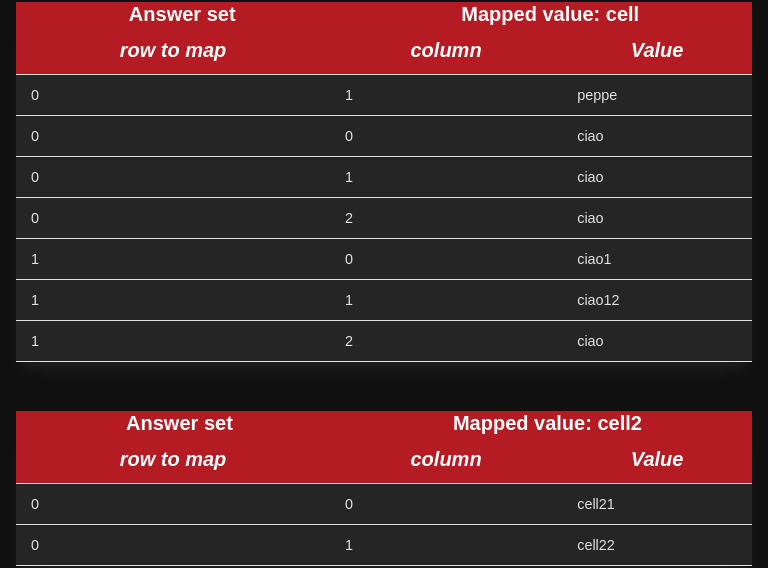
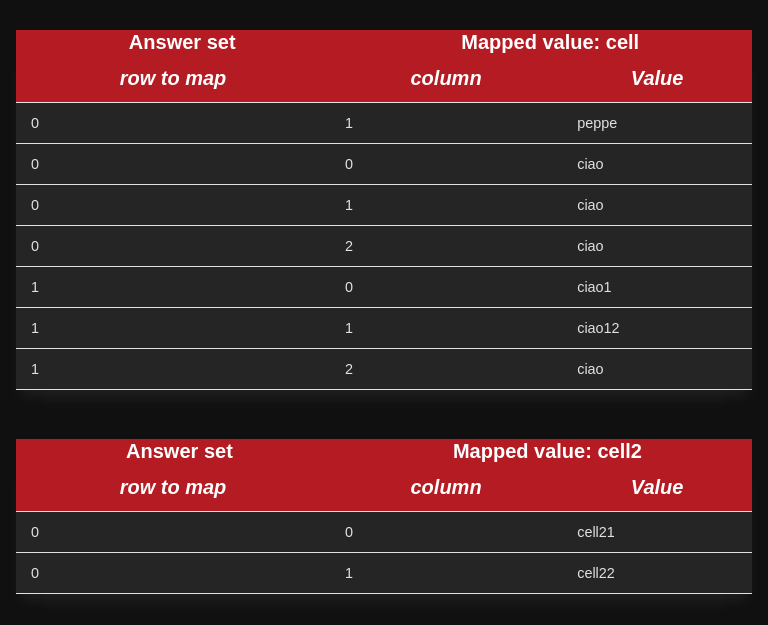
fixing tests

Changed region(s): [[0.0, 0.0, 1.0, 0.4789], [0.0, 0.6884, 1.0, 1.0], [0.0312, 0.5088, 0.9688, 0.6285]]

diff --git a/src/visualizer-integrator/visualizer.ts b/src/visualizer-integrator/visualizer.ts
@@ -17,7 +17,6 @@ export function callNode(
 
   let template_file = JSON.parse(fs.readFileSync(template_file_path, 'utf8'));
 
-  //TODO read it from the file
   const visualization_type: string = template_file.template;
   console.log(`Requested visualization: ${template_file.template}`)
 
@@ -47,8 +46,7 @@ export function callNode(
 if (require.main === module) {
   //Calling matrix; callNode('/home/simone/Desktop/agile_stuff/matrix/config_matrix.json', '/home/simone/Desktop/agile_stuff/matrix/matrix.asp', '/home/simone/Desktop/agile_stuff/dlv', 1, '/home/simone/Desktop/agile_stuff/graph_output', undefined)
   //Calling matrix-images: callNode('/home/simone/Desktop/agile_stuff/matrix/config_matrix_images.json', '/home/simone/Desktop/agile_stuff/matrix/matrix_images.asp', '/home/simone/Desktop/agile_stuff/dlv', 1, '/home/simone/Desktop/agile_stuff/graph_output', '/home/simone/Desktop/agile_stuff/matrix/matrix_images/')
-  //Calling table
-  callNode('/home/simone/Desktop/agile_stuff/matrix/config_table.json', '/home/simone/Desktop/agile_stuff/matrix/matrix.asp', '/home/simone/Desktop/agile_stuff/dlv', 1, '/home/simone/Desktop/agile_stuff/graph_output', undefined)
+  //Calling table callNode('/home/simone/Desktop/agile_stuff/matrix/config_table.json', '/home/simone/Desktop/agile_stuff/matrix/matrix.asp', '/home/simone/Desktop/agile_stuff/dlv', 1, '/home/simone/Desktop/agile_stuff/graph_output', undefined)
 }
 
 

diff --git a/src/wrapper-dlv/acceptance_tests/test_acceptance.ts b/src/wrapper-dlv/acceptance_tests/test_acceptance.ts
@@ -10,7 +10,7 @@ const dlvWrapper = new DLVWrapper()
 
 describe('acceptance test',  () => {
     //Parametrizing tests
-    it('write to stdout the correct representation of an AS', () => {
+    it('returns the correct representation of an AS', () => {
         let dlv_executable_stub = sinon.stub(dlvWrapper, "run_dlv");
         dlv_executable_stub.returns("DLV X.X.X\n\n{m(2), s(2,3)}\nCOST 1@1\n")
 
@@ -22,8 +22,8 @@ describe('acceptance test',  () => {
             asp_file: 'asp_file.asp',
         }
 
-        dlvWrapper.execute(argv);
-        expect(console_stub.calledOnceWithExactly(JSON.stringify([{ 'as': [ 'm(2)', 's(2,3)' ], 'cost': '1@1' }]))).to.be.true;
+        let res = dlvWrapper.execute(argv);
+        expect(res).to.be.equals(JSON.stringify([{ 'as': [ 'm(2)', 's(2,3)' ], 'cost': '1@1' }]));
         dlv_executable_stub.restore()
         console_stub.restore()
         

diff --git a/src/wrapper-dlv/tests/test_wrapper.ts b/src/wrapper-dlv/tests/test_wrapper.ts
@@ -1,7 +1,7 @@
 import { assert, expect } from 'chai';
 import 'mocha';
 import { DLVWrapper } from '../dlv_wrapper'
-import { execute } from '../dlv_wrapper'
+import { run_solver } from '../dlv_wrapper'
 var child_process = require('child_process')
 var fs = require('fs')
 var sinon = require('sinon')

diff --git a/preview_table.html b/preview_table.html
@@ -23,7 +23,7 @@
         flex-direction: column;
         margin: 1em;
         padding-top: 1em;
-        height: -webkit-fill-available;
+        height: auto;
     }
     td {
         padding: 12px 15px;
